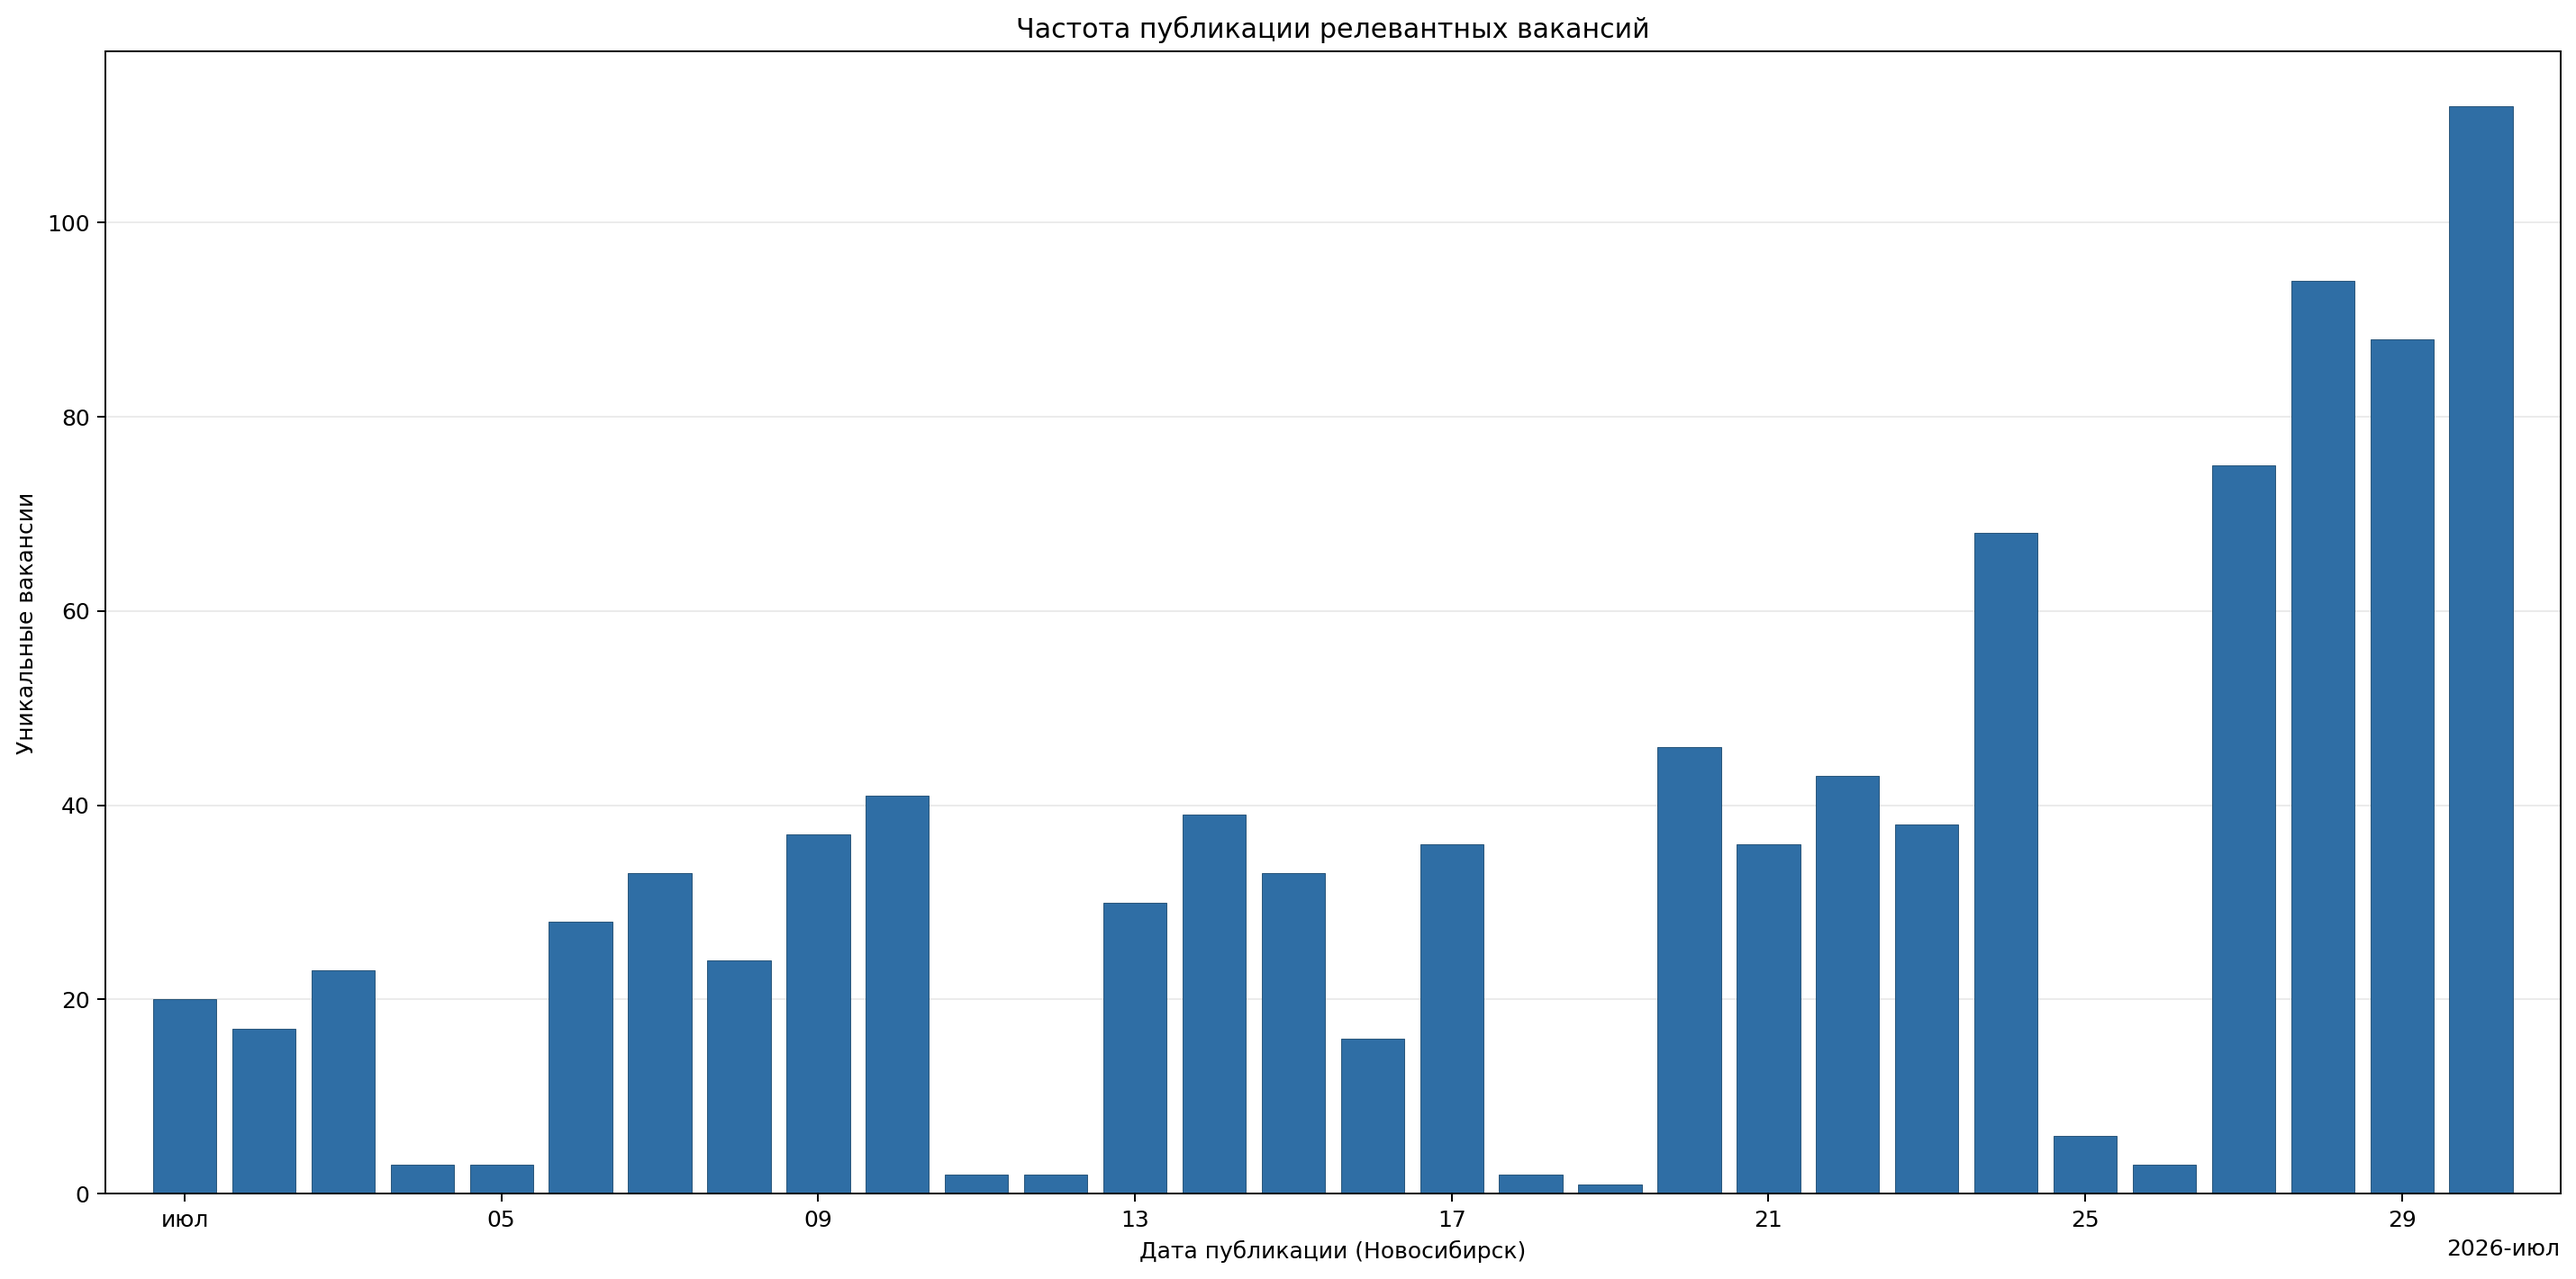
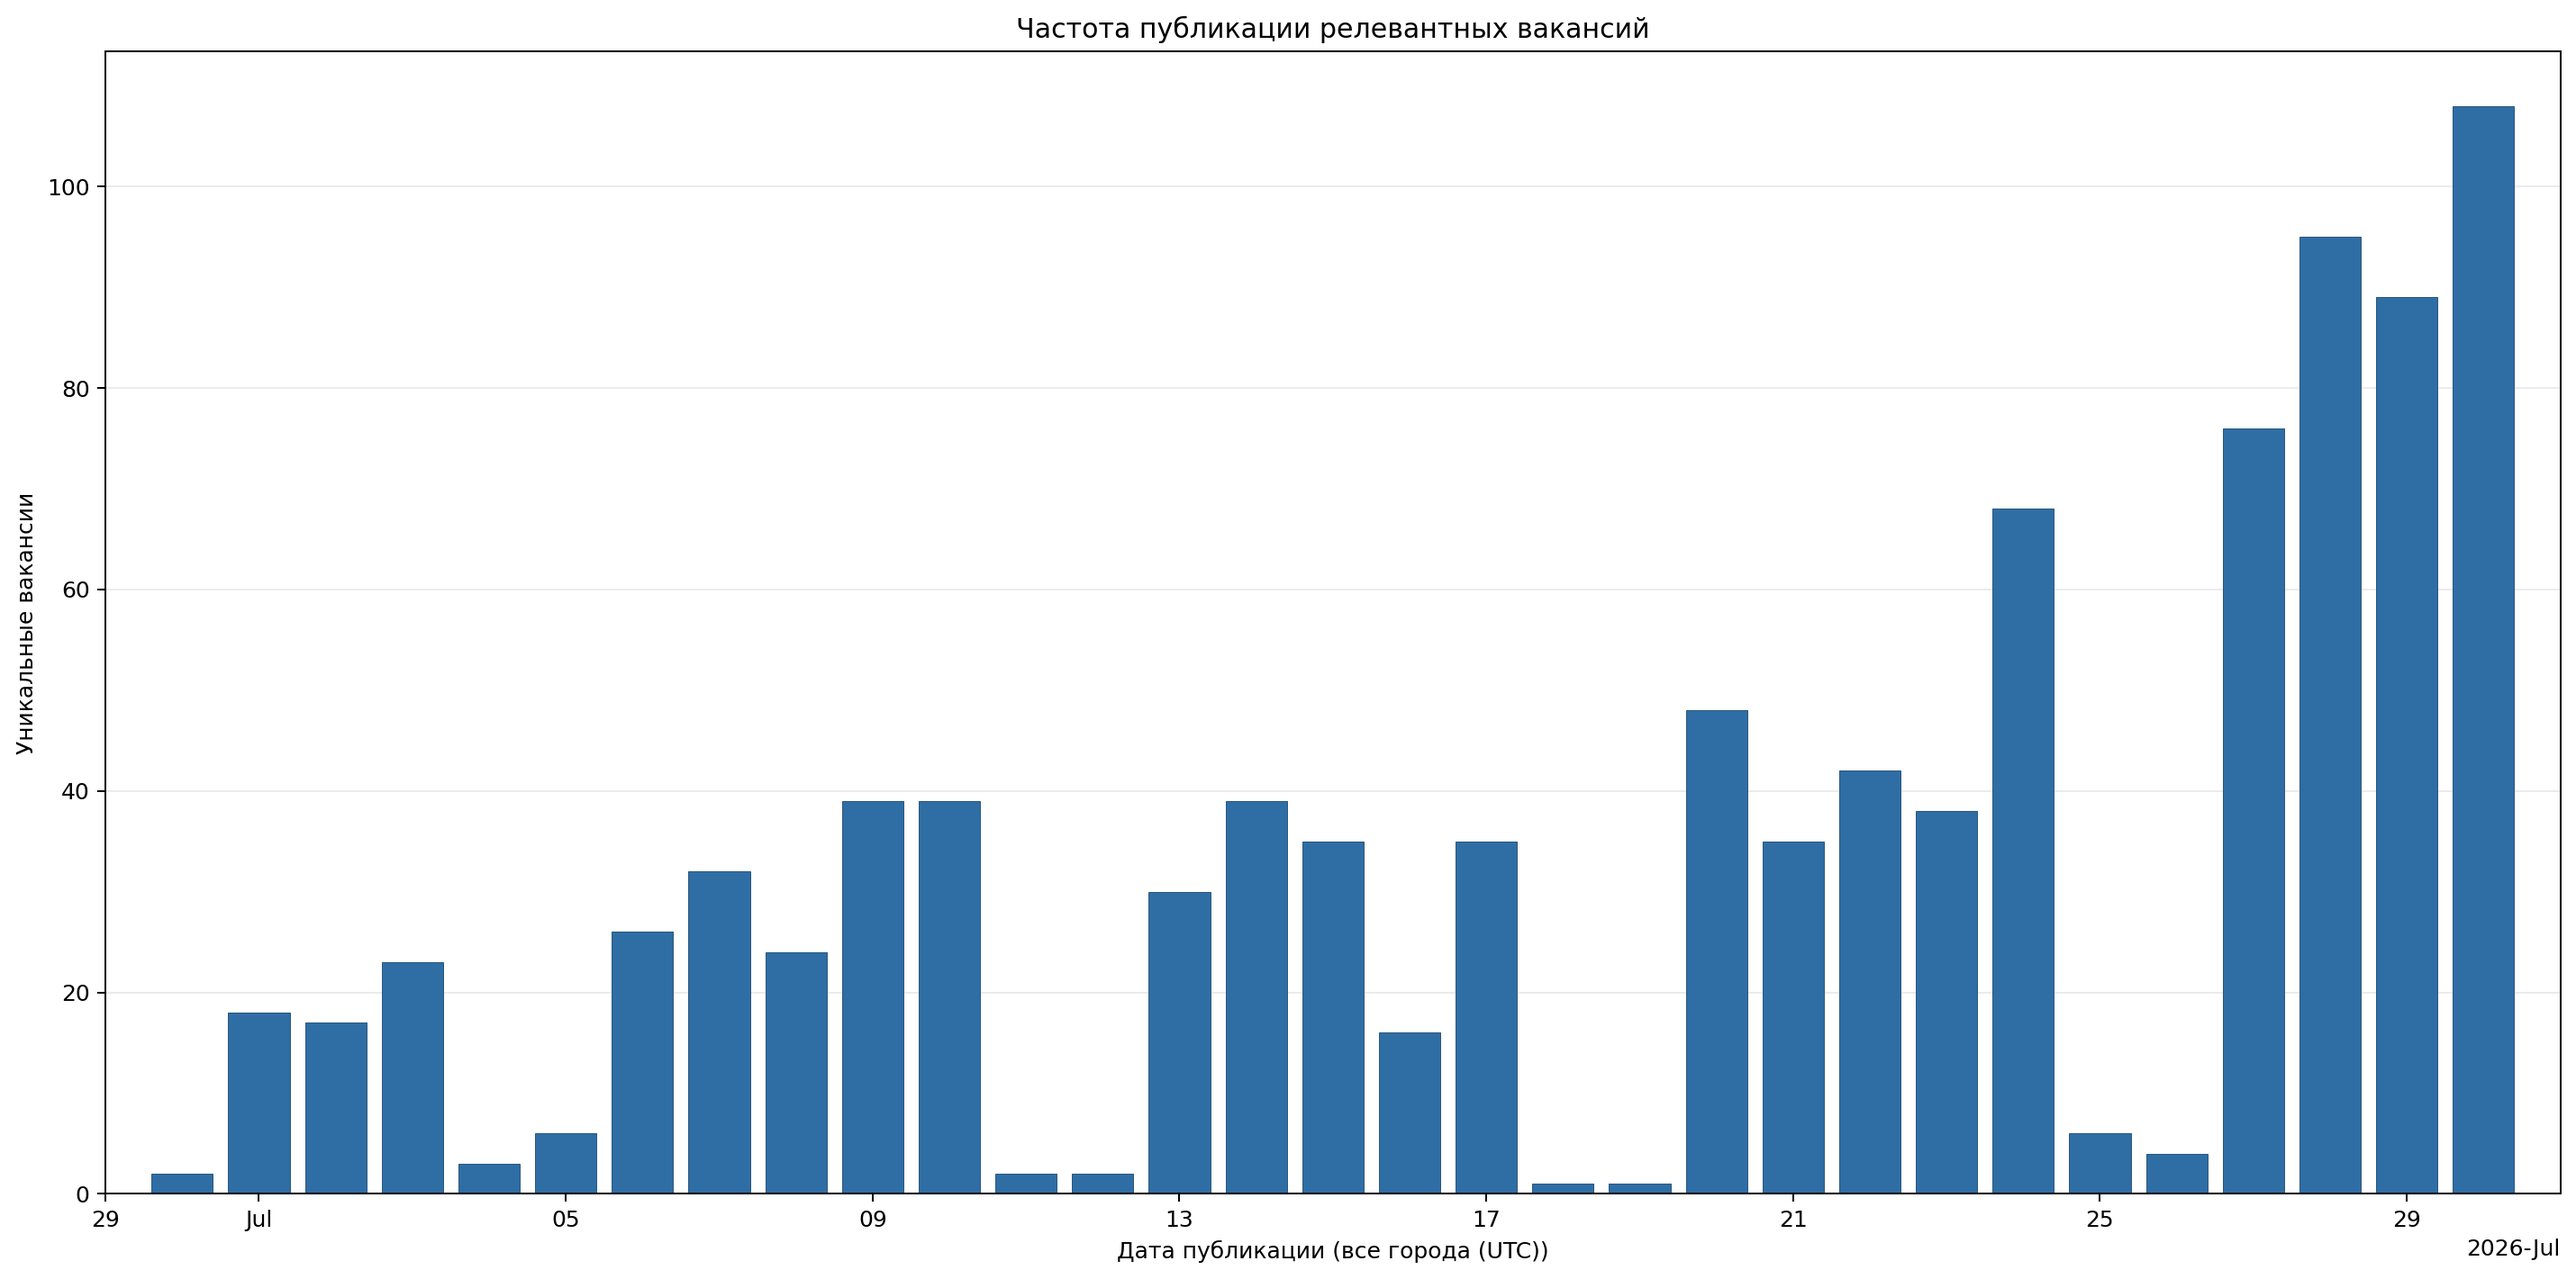
Plot publication frequency across all cities

Changed region(s): [[0.0311, 0.1858, 0.9647, 0.9909], [0.9647, 0.9599, 0.9958, 0.9909]]

diff --git a/scripts/plot_publications_timeline.py b/scripts/plot_publications_timeline.py
@@ -8,6 +8,9 @@ from collections import Counter
 from datetime import date, timedelta
 from pathlib import Path
 
+import matplotlib
+
+matplotlib.use("Agg")
 import matplotlib.dates as mdates
 import matplotlib.pyplot as plt
 
@@ -16,7 +19,7 @@ def main() -> None:
     parser = argparse.ArgumentParser()
     parser.add_argument("--input", type=Path, required=True, help="aggregate publication_trends CSV")
     parser.add_argument("--output", type=Path, required=True, help="destination PNG")
-    parser.add_argument("--label", default="Новосибирск", help="timezone label already used to aggregate input dates")
+    parser.add_argument("--label", default="все города (UTC)", help="label for the calendar used by the aggregate input")
     args = parser.parse_args()
 
     counts = Counter()

diff --git a/scripts/plot_top_skills.py b/scripts/plot_top_skills.py
@@ -6,6 +6,9 @@ import argparse
 import csv
 from pathlib import Path
 
+import matplotlib
+
+matplotlib.use("Agg")
 import matplotlib.pyplot as plt
 
 

diff --git a/research/2026-07-31/README.md b/research/2026-07-31/README.md
@@ -27,7 +27,7 @@
 
 - [top_skills.png](top_skills.png) — частота навыков по уникальным вакансиям.
 - [publications_by_date.png](publications_by_date.png) — дневная частота
-  релевантных публикаций в часовом поясе Новосибирска.
+  релевантных публикаций по всем городам; даты приведены к UTC.
 - `top_skills_rf.csv` и `topics_skills.csv` — частоты навыков и тематик.
 - `skill_cooccurrence.csv` — пары навыков в одной вакансии.
 - `publication_trends.csv` — дневной ряд в UTC из DA-витрины.
@@ -50,7 +50,7 @@ python scripts/plot_top_skills.py \
   --input research/2026-07-31/top_skills_rf.csv \
   --output research/2026-07-31/top_skills.png
 python scripts/plot_publications_timeline.py \
-  --input research/2026-07-31/publication_trends_novosibirsk.csv \
+  --input research/2026-07-31/publication_trends.csv \
   --output research/2026-07-31/publications_by_date.png \
-  --label Новосибирск
+  --label 'все города (UTC)'
 ```
